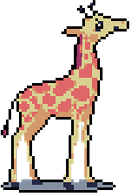
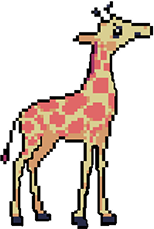
add giraffe images and implement crouch functionality

Changed region(s): [[0.0, 0.0, 1.0, 1.0]]

diff --git a/sketch.js b/sketch.js
@@ -23,6 +23,8 @@ const GIRAFFE = {
 	id: null,
 	isActive: false,
 	color: "orange",
+	image: null,
+	crouch: null,
 };
 
 const ROBOT = {
@@ -106,6 +108,9 @@ function preload() {
 	cloudsImg = loadImage("assets/cloud.png");
 	backgroundImg = loadImage("assets/background.png");
 	birdImg = loadImage("assets/bird.png");
+	GIRAFFE.image = loadImage("assets/giraffe.png");
+	GIRAFFE.crouch = loadImage("assets/giraffe-crouched.png");
+	//ROBOT.crouch = loadImage("assets/robot_crouch.png");
 	minecraftFont = loadFont("fonts/minecraft.ttf");
 }
 
@@ -126,6 +131,7 @@ function setup() {
 
 	// Giraffe
 	player = new Sprite(TILE, height - TILE * 2, TILE * 0.5, TILE);
+	player.image = GIRAFFE.image;
 	player.color = PLAYER.color;
 	player.stroke = SKY.color;
 	player.rotationLock = true;
@@ -344,7 +350,8 @@ function draw() {
 	}
 
 	if (squat) {
-		player.scale.y = 0.5;
+		//player.scale.y = 0.5;
+		player.image = GIRAFFE.crouch;
 	}
 
 	if (catched) {
@@ -359,7 +366,8 @@ function draw() {
 	}
 
 	if (!squat && !catched) {
-		player.scale.y = 1;
+		//player.scale.y = 1;
+		player.image = GIRAFFE.image;
 	}
 
 	// Check collision obstacles
